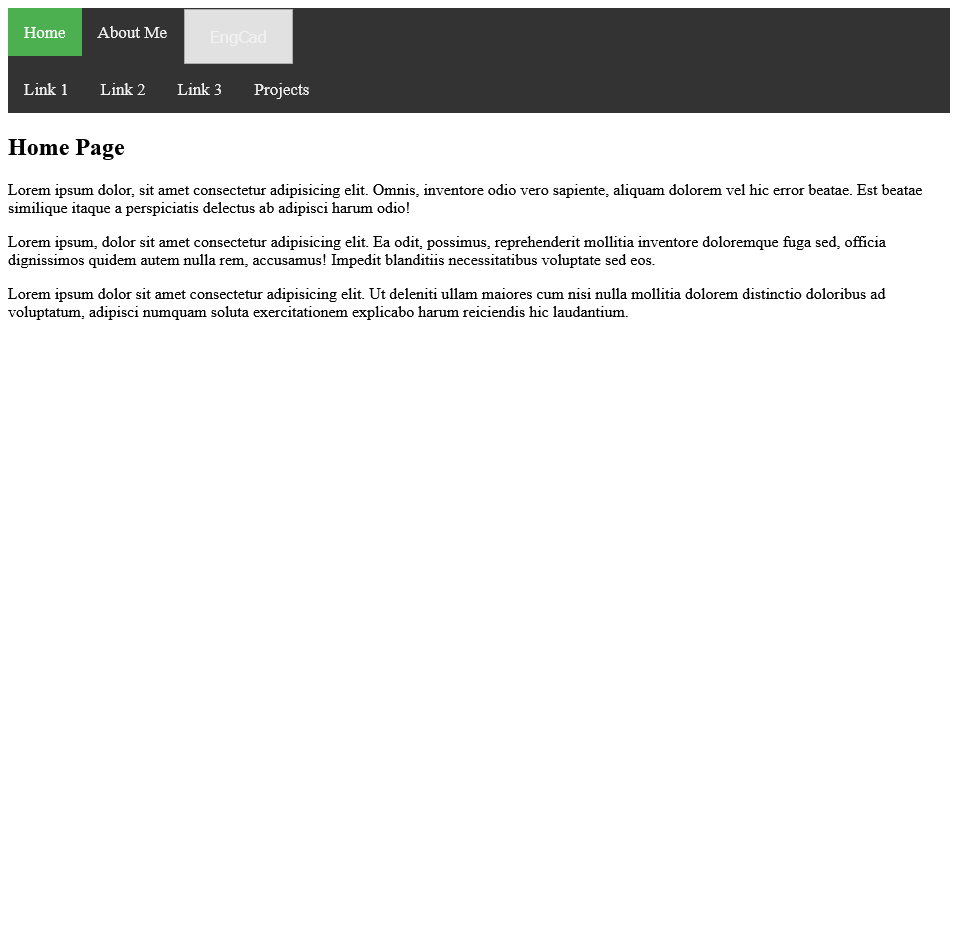
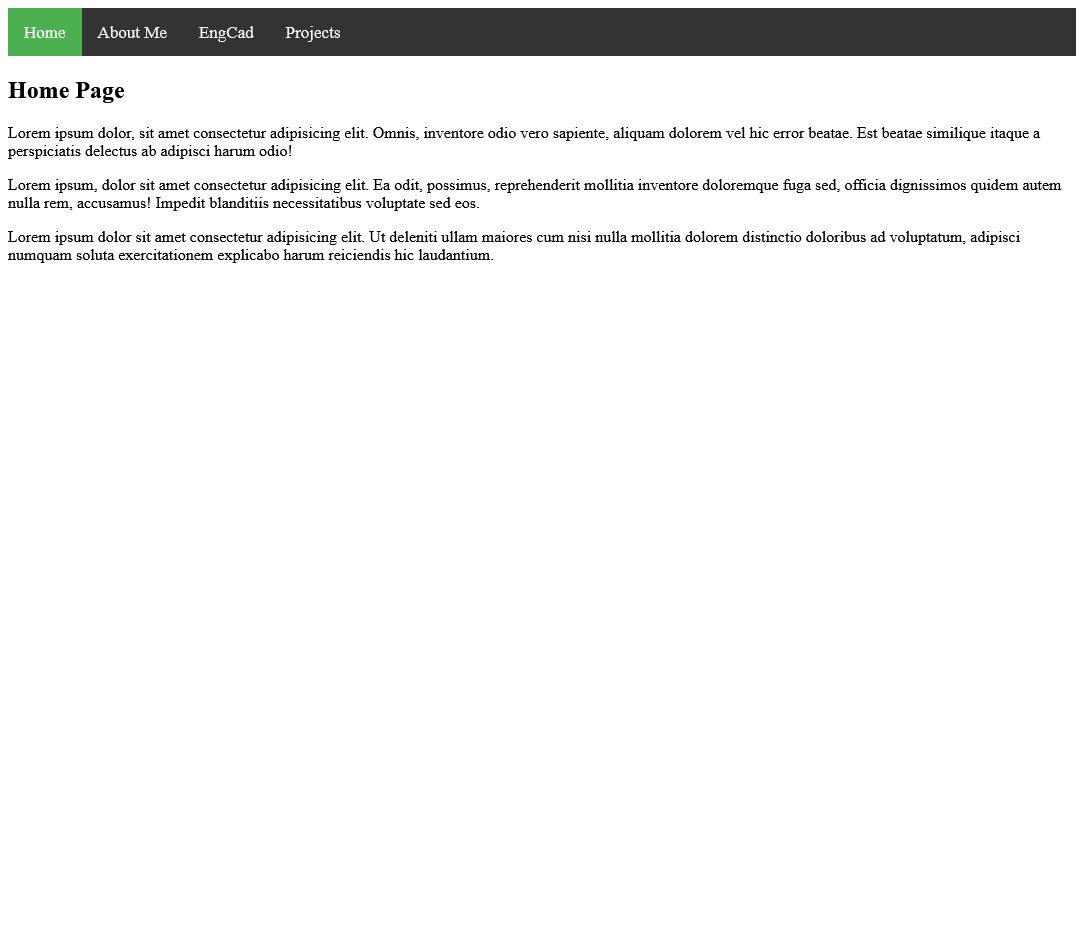
updated github-pages post

Changed region(s): [[0.0, 0.0, 0.999, 0.3423]]

diff --git a/_posts/2021-03-29-engcad-github-pages.md b/_posts/2021-03-29-engcad-github-pages.md
@@ -50,6 +50,14 @@ Next, I created the following files. An index.html file to act as a landing page
 
 | ![local machine](/assets/images/2021-03-29-engcad-github-pages/Local_machine.png)<em>Local machine folder</em> | ![site uploaded](/assets/images/2021-03-29-engcad-github-pages/Update_github.png)<em>personal website taking shape</em> |
 
+I first created a top navigation bar with my desired pages. I used the example in <a href = "https://www.w3schools.com/howto/howto_js_topnav.asp"> W3 school </a> to do so. I also took the opportunity to fill each page with unique dummy text to make identification easier. Lastly, I used the 'live server' extension in VScode to simulate the website live 
+
+![local machine 2](/assets/images/2021-03-29-engcad-github-pages/Local_machine_design.png)<em>website on local machine running on live server</em> 
+
+
+|![live server](/assets/images/2021-03-29-engcad-github-pages/liverserver.png)|<em>live server extension</em> |
+
+Referencing <a href="https://www.w3schools.com/howto/howto_css_dropdown_navbar.asp">W3 school </a> again, I added  dropdown menu in the navigation bar. The rationale for the drop down menu is that I will be working on many different projects, hence a dropdown menu will allow a visitor to see what projects I have done at once. 
 
 ***
 
